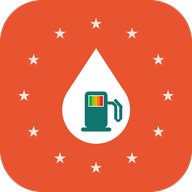
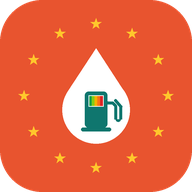
v1.5.5 — brand mark: gold stars

diff --git a/web/index.html b/web/index.html
@@ -59,7 +59,7 @@
   --amber:  #F59E0B;
   --red:    #EF4444;
   --coral:  #E8542F;   /* brand primary — CTA / cluster markers */
-  --sun:    #FFB703;   /* spare brand accent (not in the mark) */
+  --sun:    #FFC72C;   /* brand gold — the stars in the mark */
   --cream:  #FFF8EF;   /* brand warm surface */
   --tab-h:  58px;
   --safe-b: env(safe-area-inset-bottom, 0px);
